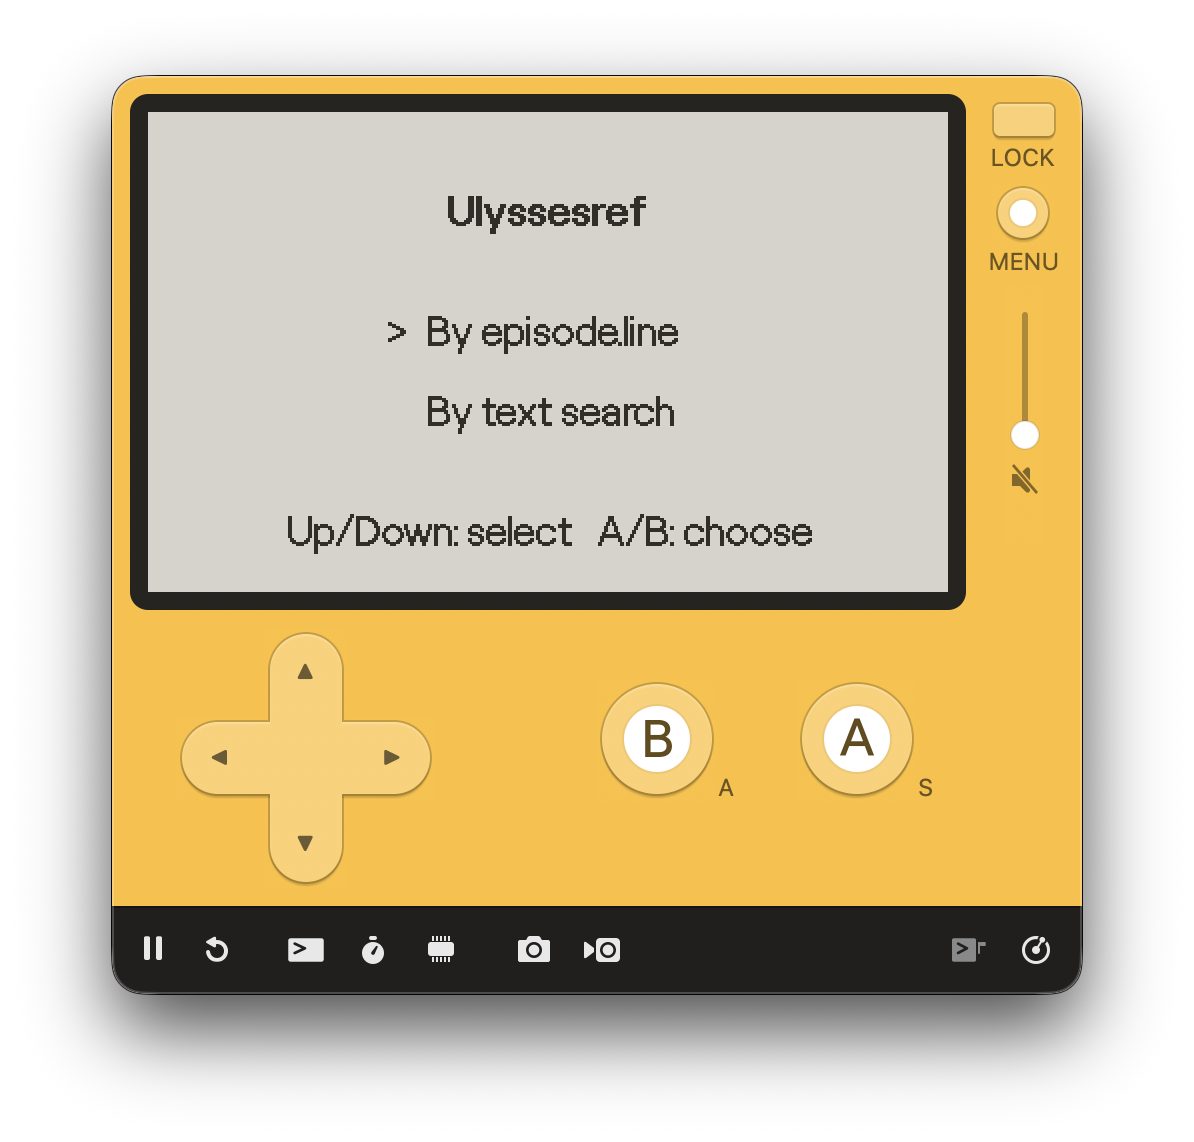
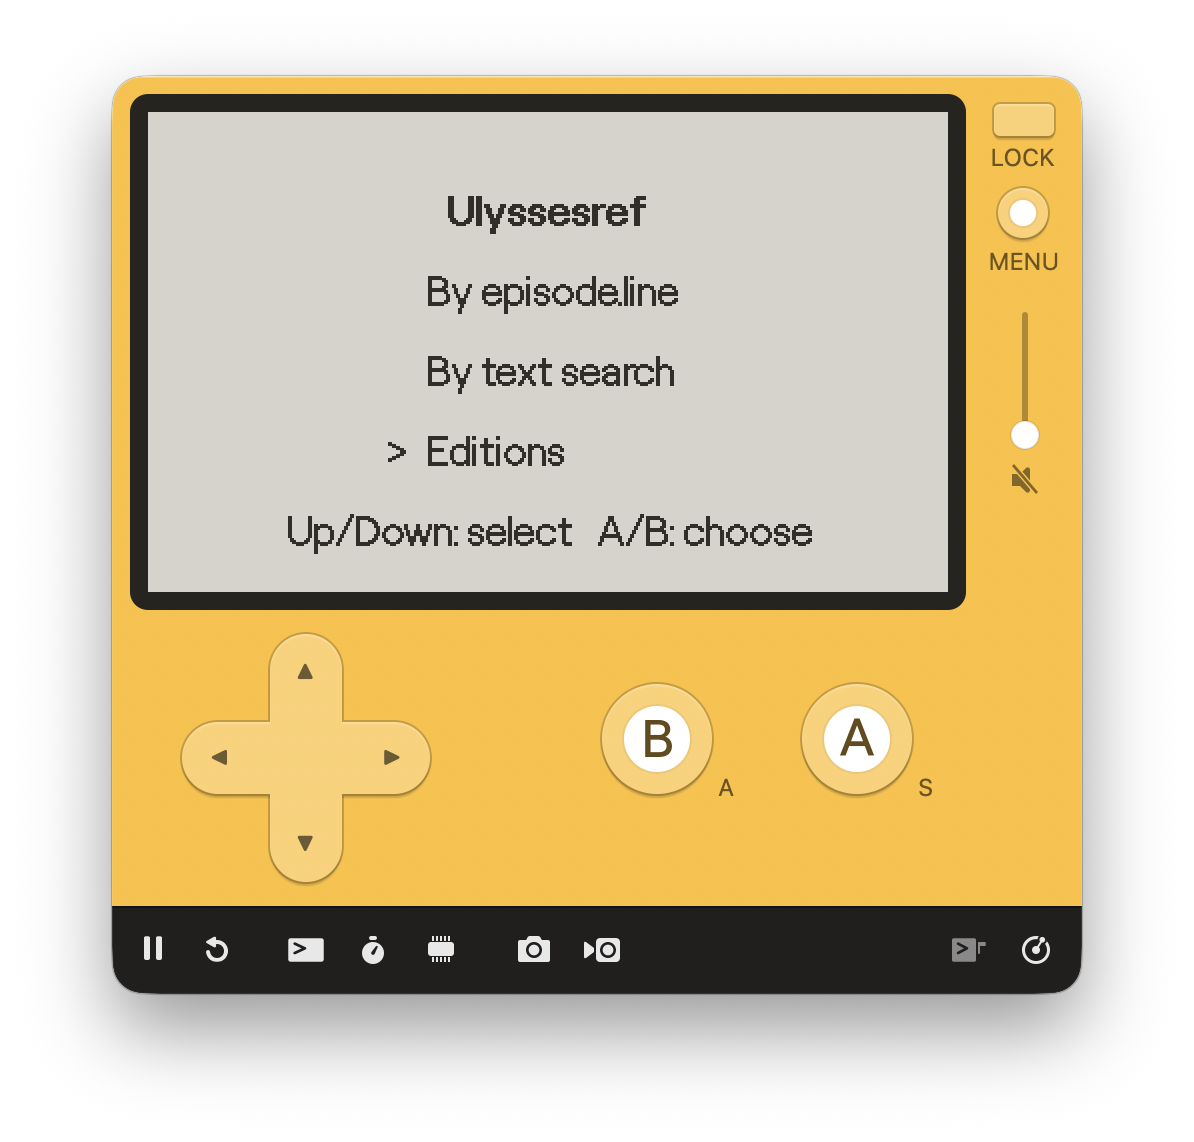
Add images and description of changes to the Playdate C app

Changed region(s): [[0.062, 0.1226, 0.9296, 0.9194], [0.3099, 0.2452, 0.5888, 0.4291], [0.093, 0.0613, 0.124, 0.0919]]

diff --git a/projects/ai/aiprojs.html b/projects/ai/aiprojs.html
@@ -225,12 +225,14 @@
 	<div class="project">
 		<div class="project-image" onclick="openLightbox('ulysquot', 0)">
 			<img src="images/ulysquot00001.png" alt="Ulysquot">
-			<div class="image-count">9</div>
+			<div class="image-count">11</div>
 		</div>
 		<div class="project-content">
 			<h2>ulysquot</h2>
 			<p>
-				Scratching a very personal itch, this web application (and a Playdate version) contains the entirety of Gabler's A Critical and Synoptic Edition of James Joyce's Ulysses and makes it easy to jump to a specific episode and line therein. A text search mode makes the reverse possible: finding the section and line of a particular word or passage, useful for looking up commentary in Ulysses Annotated (or any other reference that uses the Gabler index system).
+			Scratching a very personal itch, this web application (and a Playdate version) contains the entirety of Gabler's A Critical and Synoptic Edition of James Joyce's Ulysses and makes it easy to jump to a specific episode and line therein. 
+			A text search mode makes the reverse possible: finding the section and line of a particular word or passage, useful for looking up commentary in Ulysses Annotated (or any other reference that uses the Gabler index system).
+			A recent addition is the edition page converter which will, thanks to the data from <a href="https://www.james-joyce.de/ulysses/essays">this site</a>, let you find the (sometimes approximate) equivalent in a different edition.
 			</p>
 		</div>
 	</div>
@@ -278,6 +280,8 @@
 				'images/ulysquotC00004.png',
 				'images/ulysquotC00005.png',
 				'images/ulysquotC00006.png',
+				'images/ulysquotC00007.png',
+				'images/ulysquotC00008.png',
 			]
 		};
 
